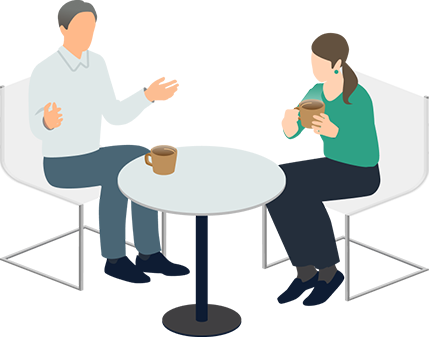
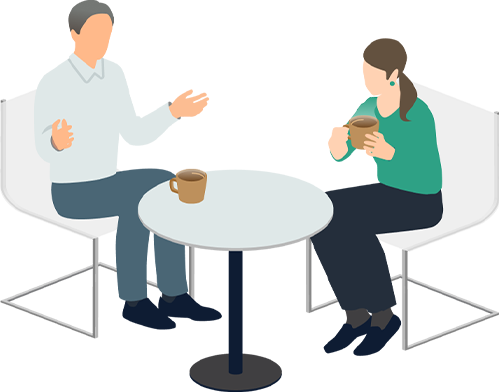
Update project settings

diff --git a/components/Footer.tsx b/components/Footer.tsx
@@ -7,78 +7,90 @@ import styles from "./Footer.module.css";
 export default function Footer() {
   return (
     <section className={styles.footer}>
-      <div className={styles.fot_log}>
-        <Link href="/"
-        onClick={() => {
-          window.scrollTo({
-            top: 0,
-            behavior: "smooth",
-          });
-        }}><Image src="/img/basic/logo_long.webp" alt="株式会社テンミュー" fill style={{ objectFit: "contain" }} />
-        </Link>
+      <div className={styles.wrap}>
+        <div className={styles.fot_log}>
+          <Link href="/"
+          onClick={() => {
+            window.scrollTo({
+              top: 0,
+              behavior: "smooth",
+            });
+          }}>
+            <picture>
+              <source media="(min-width: 500px)" srcSet="/img/basic/logo_s.webp" />
+              <img
+                src="/img/basic/logo_long.webp"
+                alt="株式会社テンミュー"
+                loading="lazy"
+              />
+            </picture>
+          </Link>
+        </div>
+        <ul className={styles.fot_nav}>
+          <li>
+            <div className={styles.fot_nav_ttl}>
+              <Link href="/about"
+              onClick={() => {
+                window.scrollTo({
+                  top: 0,
+                  behavior: "smooth",
+                });
+              }}>
+                <span className={styles.ja}>私たちについて</span><span className={styles.en}>ABOUT</span>
+              </Link>
+            </div>
+            <ul className={styles.fot_nav_lnk}>
+              <li><Link href="/about#vision">私たちの想い</Link></li>
+              <li><Link href="/about#mission">ミッション</Link></li>
+              <li><Link href="/about#company">会社概要</Link></li>
+            </ul>
+          </li>
+          <li>
+            <div className={styles.fot_nav_ttl}>
+              <Link href="/service"
+              onClick={() => {
+                window.scrollTo({
+                  top: 0,
+                  behavior: "smooth",
+                });
+              }}>
+                <span className={styles.ja}>サービス</span><span className={styles.en}>SERVICE</span>
+              </Link>
+            </div>
+            <ul className={styles.fot_nav_lnk}>
+              <li><Link href="/service#support">キャリア支援</Link></li>
+              <li><Link href="/service#reasons">選ばれる理由</Link></li>
+            </ul>
+          </li>
+          <li>
+            <div className={styles.fot_nav_ttl}>
+              <Link href="/contact"
+              onClick={() => {
+                window.scrollTo({
+                  top: 0,
+                  behavior: "smooth",
+                });
+              }}>
+              <span className={styles.ja}>お問い合わせ<span className={styles.sp}>・採用情報</span></span><span className={styles.en}>CONTACT<span className={styles.sp}>・RECRUIT</span></span>
+              </Link>
+            </div>
+            <ul className={styles.fot_nav_lnk}>
+              <li><Link href="/contact#contact">お問い合わせ</Link></li>
+              <li><Link href="/contact#recruit">採用情報</Link></li>
+            </ul>
+          </li>
+        </ul>
       </div>
-      <ul className={styles.fot_nav}>
-        <li>
-          <div className={styles.fot_nav_ttl}>
-            <Link href="/about"
-            onClick={() => {
-              window.scrollTo({
-                top: 0,
-                behavior: "smooth",
-              });
-            }}>
-              <span className={styles.ja}>私たちについて</span><span className={styles.en}>ABOUT</span>
-            </Link>
-          </div>
-          <ul className={styles.fot_nav_lnk}>
-            <li><Link href="/about#vision">私たちの想い</Link></li>
-            <li><Link href="/about#mission">ミッション</Link></li>
-            <li><Link href="/about#company">会社概要</Link></li>
-          </ul>
-        </li>
-        <li>
-          <div className={styles.fot_nav_ttl}>
-            <Link href="/service"
-            onClick={() => {
-              window.scrollTo({
-                top: 0,
-                behavior: "smooth",
-              });
-            }}>
-              <span className={styles.ja}>サービス</span><span className={styles.en}>SERVICE</span>
-            </Link>
-          </div>
-          <ul className={styles.fot_nav_lnk}>
-            <li><Link href="/service#support">キャリア支援</Link></li>
-            <li><Link href="/service#reasons">選ばれる理由</Link></li>
-          </ul>
-        </li>
-        <li>
-          <div className={styles.fot_nav_ttl}>
-            <Link href="/contact"
-            onClick={() => {
-              window.scrollTo({
-                top: 0,
-                behavior: "smooth",
-              });
-            }}>
-            <span className={styles.ja}>お問い合わせ・採用情報</span><span className={styles.en}>CONTACT・RECRUIT</span>
-            </Link>
-          </div>
-          <ul className={styles.fot_nav_lnk}>
-            <li><Link href="/contact#contact">お問い合わせ</Link></li>
-            <li><Link href="/contact#recruit">採用情報</Link></li>
-          </ul>
-        </li>
-      </ul>
-      <Link className={styles.fot_txt_lnk} href="/privacy_policy"
-      onClick={() => {
-        window.scrollTo({
-          top: 0,
-          behavior: "smooth",
-        });
-      }}>プライバシーポリシー</Link>
-      <p className={styles.fot_txt}>© 2026 tenmew Corporation.</p>
+      <div className={styles.wrap}>
+          <Link className={styles.fot_txt_lnk} href="/privacy_policy"
+          onClick={() => {
+            window.scrollTo({
+              top: 0,
+              behavior: "smooth",
+            });
+          }}>プライバシーポリシー</Link>
+          <p className={styles.fot_txt}>© 2026 tenmew Corporation.</p>
+      </div>
     </section>
   );
 }

diff --git a/components/Footer.module.css b/components/Footer.module.css
@@ -48,3 +48,88 @@
   margin-bottom: 10px;
   display: block;
 }
+
+/* ------ タブレット・PC ------ */
+@media (min-width: 500px) {
+.footer {
+  padding: 100px 0 50px;
+}
+.footer .wrap{
+  margin: 0 auto;
+  max-width: 1024px;
+  clear: both;
+  overflow: hidden;
+}
+.fot_log {
+  position: static;
+  width: auto;
+  height: auto;
+  margin-bottom: 0;
+  float: left;
+  width: 200px;
+}
+.fot_log a {
+  width: 200px;
+  display: inline-block;
+}
+.fot_nav {
+  float: right;
+  width: 75%;
+  display: flex;
+  justify-content: flex-end;
+  align-items: flex-start;
+}
+.fot_nav li {
+  margin-bottom: 0;
+}
+.fot_nav li+li {
+  margin-left: 25px;
+}
+.fot_nav_ttl {
+  margin-bottom: 1rem;
+}
+.fot_nav_ttl .en {
+  font-size: 35px;
+}
+.fot_nav_ttl .sp {
+  display: none;
+}
+.fot_nav_lnk {
+  margin-bottom: 0;
+}
+.fot_nav_lnk li {
+  border-right: none;
+  border-bottom: dotted 2px #333;
+  padding: 0 0 0.5rem 0;
+  margin: 0 0 0.5rem 0;
+  display: block;
+}
+.fot_nav_lnk li+li {
+  margin-left: 0;
+}
+.fot_nav_lnk li:last-child {
+  border-bottom: none;
+}
+.footer .wrap+.wrap{
+  margin-top: 50px;
+  padding-top: 50px;
+  border-top: solid 1px #333;
+}
+.fot_txt_lnk, .fot_txt {
+  margin-bottom: 0;
+  display: inline-block;
+}
+.footer .wrap:last-child{
+  position: relative;
+}
+.fot_txt {
+  display: flex;
+  justify-content: center;
+  align-items: center;
+}
+.fot_txt_lnk {
+  position: absolute;
+  top: 50px;
+  right: 0;
+}
+}

diff --git a/components/PageHero.tsx b/components/PageHero.tsx
@@ -6,7 +6,8 @@ type PageHeroProps = {
   en: string;
   ja: string;
   lead: string;
-  image: string;
+  image_pc: string;
+  image_sp: string;
   alt: string;
   links: {
     href: string;
@@ -18,35 +19,46 @@ export default function PageHero({
   en,
   ja,
   lead,
-  image,
+  image_pc,
+  image_sp,
   alt,
   links,
 }: PageHeroProps) {
   return (
     <section className={styles.hero}>
-      <div className={styles.hero_lead}>
-        <h1>
-          <span className={styles.en}>{en}</span>
-          <span className={styles.ja}>{ja}</span>
-        </h1>
+      <div className={styles.hero_mv}>
+        <div className={styles.hero_lead}>
+          <h1>
+            <span className={styles.en}>{en}</span>
+            <span className={styles.ja}>{ja}</span>
+          </h1>
 
-        <p className={styles.lead}>
-          {lead.split("\n").map((line, index) => (
-            <span key={index}>
-              {line}
-              <br />
-            </span>
-          ))}
-        </p>
-      </div>
+          <p className={styles.lead}>
+            {lead.split("\n").map((line, index) => (
+              <span key={index}>
+                {line}
+                <br />
+              </span>
+            ))}
+          </p>
+        </div>
 
-      <div className={styles.hero_img}>
-        <Image
-          src={image}
-          alt={alt}
-          fill
-          style={{ objectFit: "contain" }}
-        />
+        <div className={styles.hero_img}>
+          <picture>
+            <source media="(min-width: 500px)" srcSet={image_pc} />
+            <img
+              src={image_sp}
+              alt={alt}
+              loading="lazy"
+            />
+          </picture>
+          {/*<Image
+            src={image}
+            alt={alt}
+            fill
+            style={{ objectFit: "contain" }}
+          />*/}
+        </div>
       </div>
       <ul className={styles.hero_anc}>
         {links.map((link) => (

diff --git a/components/Header.module.css b/components/Header.module.css
@@ -24,6 +24,11 @@
   top: 2vh;
   left: 3%;
 }
+.header_logo a img {
+  position: absolute;
+  height: 100%;
+  width: auto;
+}
 
 .header_container input[type="checkbox"] {
   opacity: 0;
@@ -145,6 +150,11 @@
 .header_logo a:hover {
   opacity: 0.7;
 }
+.header_logo a img {
+  position: static;
+  height: auto;
+}
+
 .header_container input[type="checkbox"] {
   display: none;
 }

diff --git a/app/about/page.tsx b/app/about/page.tsx
@@ -48,7 +48,8 @@ export default function AboutPage() {
         en="ABOUT"
         ja="私たちについて"
         lead={"テンミューが目指す社会やミッション、\n会社概要をご紹介します。"}
-        image="/img/about/about_img01.webp"
+        image_pc="/img/about/pc_about_img01.webp"
+        image_sp="/img/about/about_img01.webp"
         alt="私たちについて"
         links={[
           {

diff --git a/components/ContactLead.module.css b/components/ContactLead.module.css
@@ -52,7 +52,7 @@
   background-image: url(../public/img/basic/btn_icon_wh.webp);
   background-position: 0 0;
   background-repeat: no-repeat;
-  background-size: auto 20px;
+  background-size: auto 16px;
   width: 16px;
   height: 1em;
   right: 10px;

diff --git a/components/Header.tsx b/components/Header.tsx
@@ -30,7 +30,6 @@ export default function Header() {
                 alt="株式会社テンミュー"
                 loading="lazy"
               />
-            {/*<Image src="/img/basic/logo_s.webp" alt="株式会社テンミュー" fill style={{ objectFit: "contain" }} />*/}
             </picture>
           </Link>
         </div>